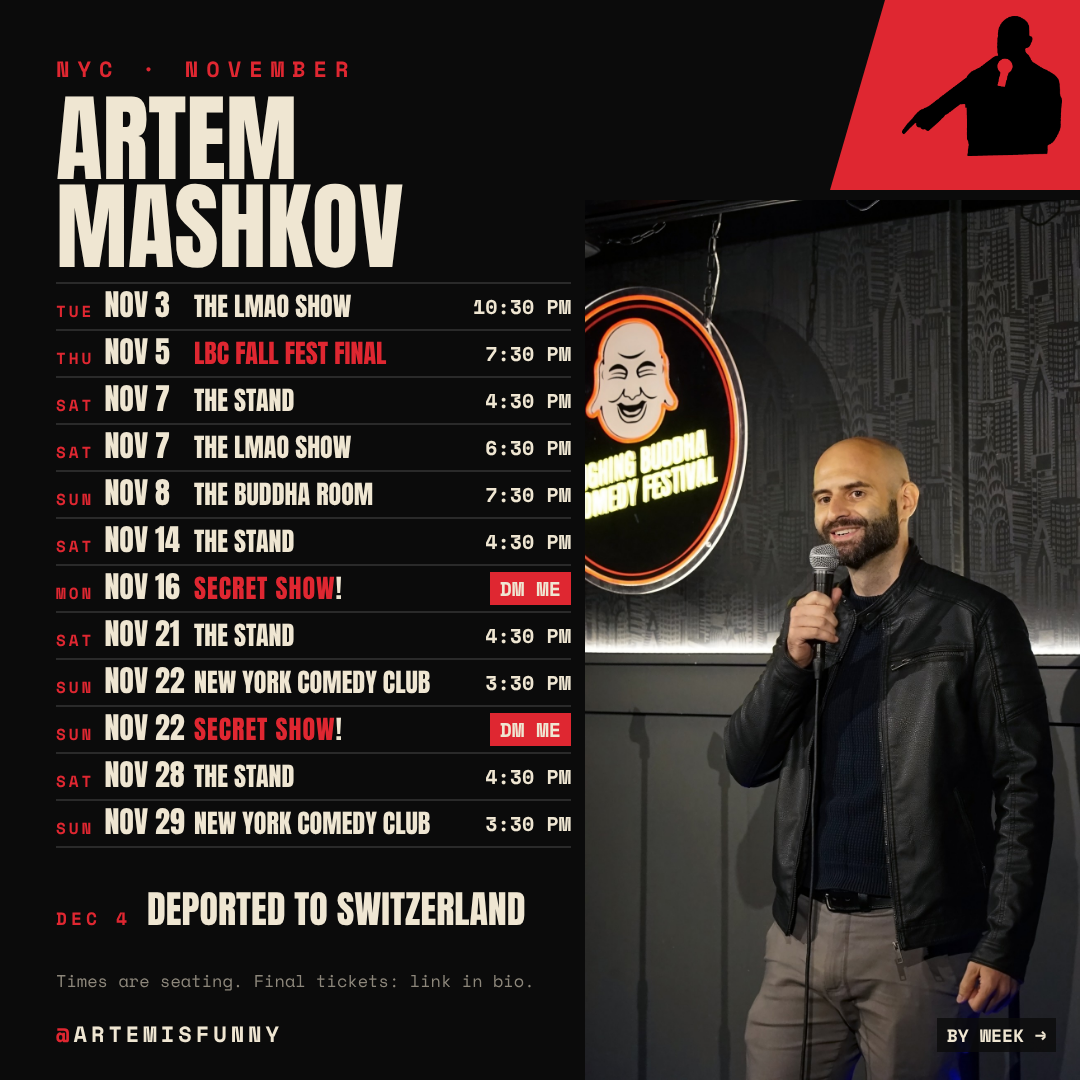
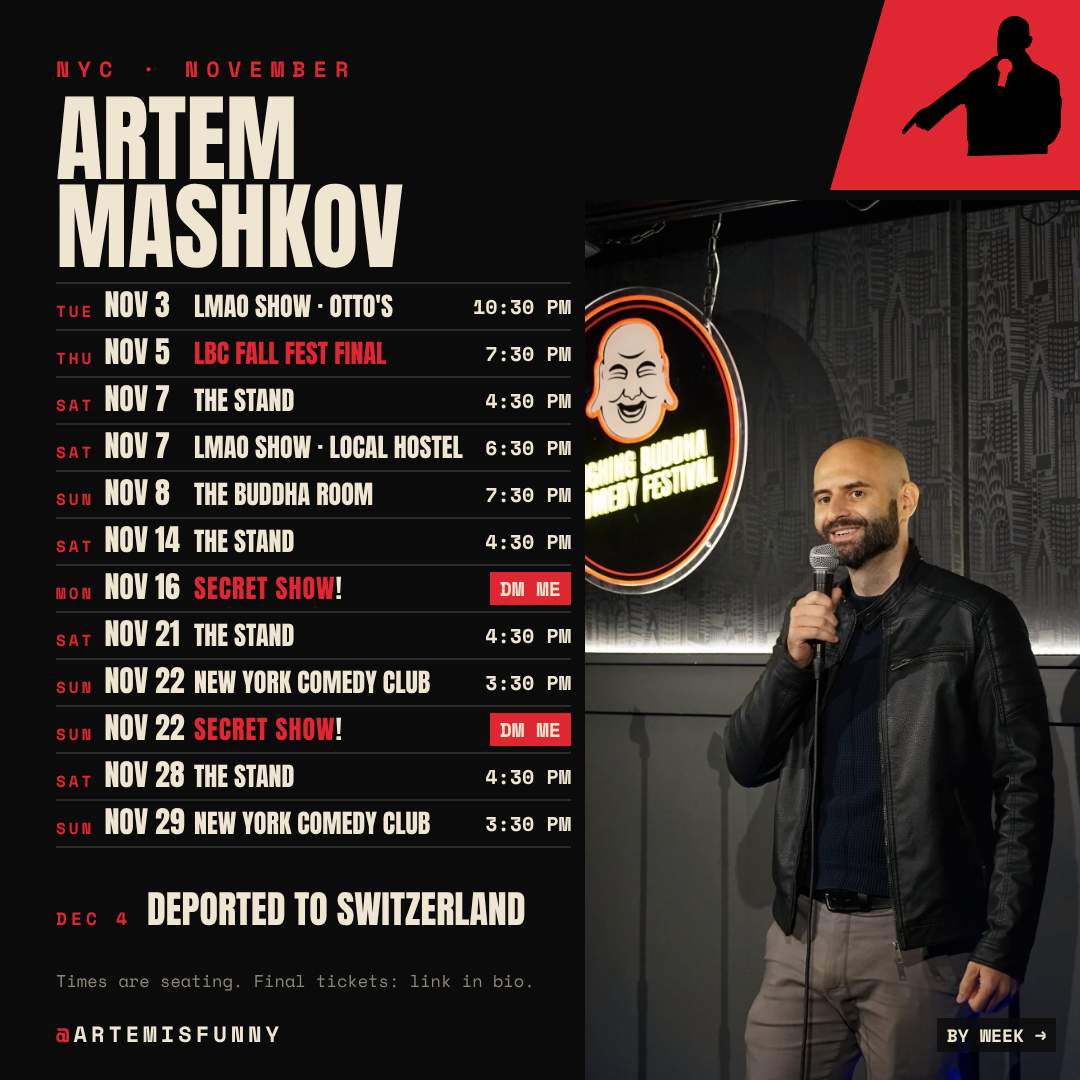
November post: venue names; keep Fall Fest Final name, tag LMAO shows
Claude-Session: https://claude.ai/code/session_01EF93tgUVhVexTD3MFBJ81b

Changed region(s): [[0.1833, 0.3972, 0.4278, 0.4278], [0.1833, 0.275, 0.3667, 0.3056]]

diff --git a/nyc-november-2026/build.py b/nyc-november-2026/build.py
@@ -23,10 +23,10 @@ BUDDHA = ("THE BUDDHA ROOM", "410 8th Ave, 2nd Fl")
 
 # (day, date, seating, venue, address, note)
 SHOWS = [
-    ("TUE", "NOV 3", "10:30 PM", "THE LMAO SHOW", "Otto's Shrunken Head · 538 E 14th St", ""),
+    ("TUE", "NOV 3", "10:30 PM", "OTTO'S SHRUNKEN HEAD", "The LMAO Show · 538 E 14th St", "", "LMAO SHOW · OTTO'S"),
     ("THU", "NOV 5", "7:30 PM", "LBC FALL FEST FINAL", "The Buddha Room · 410 8th Ave, 2nd Fl", "final"),
     ("SAT", "NOV 7", "4:30 PM", *STAND, ""),
-    ("SAT", "NOV 7", "6:30 PM", "THE LMAO SHOW", "The Local Hostel · 1302 44th Ave, LIC", ""),
+    ("SAT", "NOV 7", "6:30 PM", "THE LOCAL HOSTEL", "The LMAO Show · 1302 44th Ave, LIC", "", "LMAO SHOW · LOCAL HOSTEL"),
     ("SUN", "NOV 8", "7:30 PM", *BUDDHA, ""),
     ("SAT", "NOV 14", "4:30 PM", *STAND, ""),
     ("MON", "NOV 16", "DM ME", "SECRET SHOW", "Pro comics · Location: ask me", "secret"),
@@ -75,7 +75,7 @@ def logo(w, h, img_w, img_x, img_y):
 
 def rows(shows, dt_px, name_px, addr_px, t_px, pad):
     out = []
-    for dow, dt, seat, name, addr, note in shows:
+    for dow, dt, seat, name, addr, note, *_ in shows:
         lbl = "SEATING" if seat[0].isdigit() else "&nbsp;"
         out.append(f"""
 <div class="row {note}" style="padding:{pad}px 0">
@@ -102,7 +102,8 @@ def page(w, h, body):
 
 def compact_rows(shows):
     out = []
-    for dow, dt, seat, name, addr, note in shows:
+    for dow, dt, seat, name, addr, note, *short in shows:
+        name = short[0] if short else name
         out.append(f"""
 <div class="row {note}" style="padding:6px 0">
   <div class="d" style="width:138px;display:flex;align-items:baseline;gap:10px">
